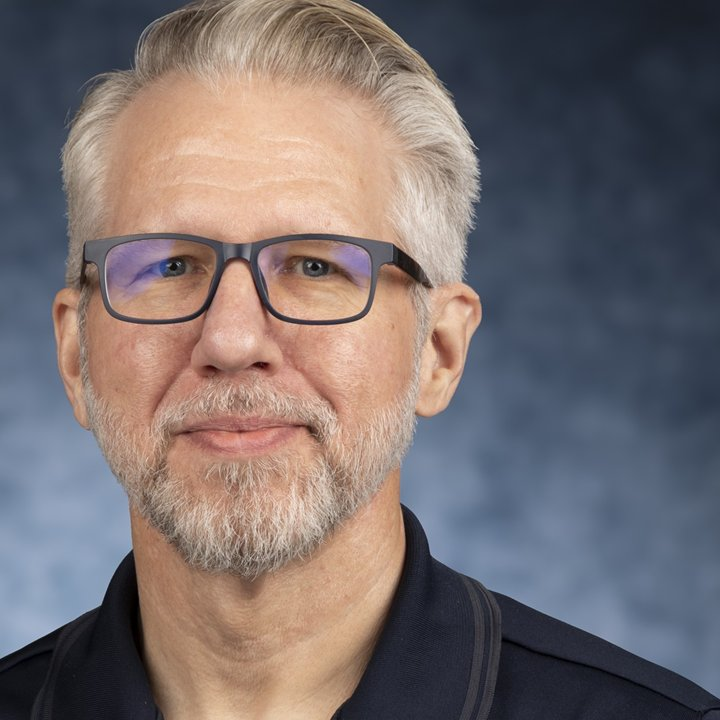
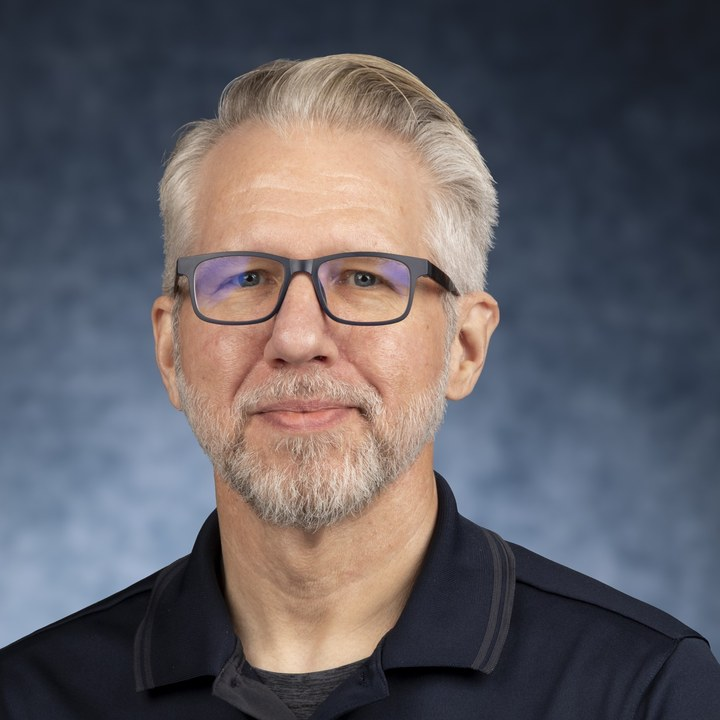
Refine hero headshot and role description

diff --git a/index.html b/index.html
@@ -34,7 +34,7 @@
           <img class="hero-headshot" src="/assets/images/mark-wright-headshot.jpg" alt="Mark L. Wright">
           <div>
             <p class="meta">Mark L. Wright</p>
-            <p>Learning systems, curriculum work, and instructional design operations.</p>
+            <p>Manager of instructional design focused on course development, curriculum operations, and faculty support.</p>
           </div>
         </div>
         <h2>Current focus</h2>
